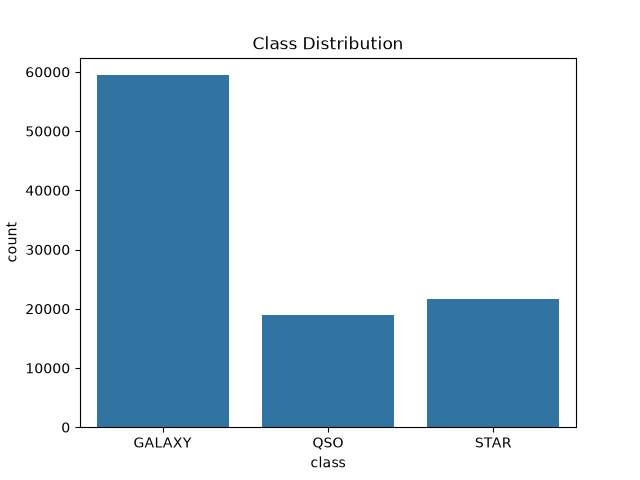
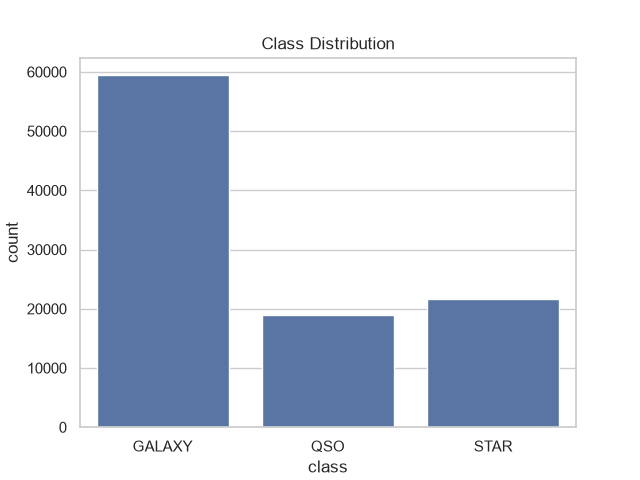
Add more comparison graphs to EDA

diff --git a/CS171_EDA.py b/CS171_EDA.py
@@ -2,54 +2,163 @@ import pandas as pd
 import seaborn as sns
 import matplotlib.pyplot as plt
 import torch
-pd.set_option('display.max_columns', None)
+
+# settings
+pd.set_option("display.max_columns", None)
+sns.set_theme(style="whitegrid")
+
+# load data set
 df = pd.read_csv("./star_classification.csv")
+
+# remove unused columns
+cols = ["u", "g", "r", "i", "z", "redshift"]
 drop_cols = ["obj_ID", "alpha", "delta", "run_ID", "rerun_ID", "cam_col", "field_ID", "spec_obj_ID", "plate", "MJD", "fiber_ID"]
 df.drop(columns=drop_cols, inplace=True)
-cols = ["u", "g", "r", "i", "z", "redshift"]
+
+# remove rows containing -9999 invalid measurements
 before = len(df)
 rows_to_drop = df[(df[cols] == -9999).any(axis=1)]
 df = df.drop(index=rows_to_drop.index)
 after = len(df)
 
+# remove duplicate rows
+duplicates = df.duplicated().sum()
+df = df.drop_duplicates().reset_index(drop=True)
+
+print("Invalid rows removed:", before-after)
+print("Duplicates removed:", duplicates)
+print("Remaining rows:", len(df))
+
 print("\n" + "-" * 70)
 print("Exploratory Data Analysis")
 print("-" * 70)
-print(f"Outliers dropped: {before - after}")
-print("Number of duplicates:", df.duplicated().sum())
-print()
+
+print("\nDataset Information")
 print(df.info())
-print()
+
+print("\nSummary Statistics")
 print(df.describe())
-print()
+
+print("\nClass Counts")
 print(df['class'].value_counts())
 
-print("Generating Class Distribution")
+print("Generating class distribution...")
 sns.countplot(data=df, x="class")
 plt.title("Class Distribution")
 plt.savefig("./EDA_Charts/class_distribution.png")
+plt.close()
 
-numeric_cols = df.select_dtypes(include="number").columns
-
-print("Generating box plots")
+print("Generating redshift boxplot...")
 plt.figure(figsize=(12,6))
 df[["redshift"]].boxplot()
 plt.title("Boxplot of Redshift")
 plt.savefig("./EDA_Charts/redshift_boxplot.png")
+plt.close()
+
+print("Generating other boxplots...")
 plt.figure(figsize=(8, 6))
 df[["u", "g", "r", "i", "z"]].boxplot()
 plt.title("Boxplots of Key Features")
 plt.xticks(rotation=45)
 plt.savefig("./EDA_Charts/features_boxplot.png")
-
-plt.figure(figsize=(12,10))
+plt.close()
 
 print("Generating Correlation Heatmap")
+
+plt.figure(figsize=(12,10))
 sns.heatmap(
     df.corr(numeric_only=True),
     cmap="coolwarm",
     annot=False
 )
-
 plt.title("Correlation Heatmap")
 plt.savefig("./EDA_Charts/heatmap_correlation.png")
+plt.close()
+
+print("Generating class-versus-feature boxplots...")
+for feature in cols:
+    plt.figure(figsize=(9, 6))
+    sns.boxplot(
+        data=df,
+        x="class",
+        y=feature,
+        showfliers=False,
+    )
+
+    plt.title(f"{feature.capitalize()} Distribution by Class")
+    plt.xlabel("Class")
+    plt.ylabel(feature)
+    plt.tight_layout()
+    plt.savefig(
+        f"./EDA_Charts/{feature}_comparison_boxplot.png",
+        dpi=300,
+    )
+    plt.close()
+
+sample_df = df.sample(n=5000, random_state=42)
+print("Genearting Feature Comparisons...")
+plt.figure(figsize=(8,6))
+sns.scatterplot(
+    data=sample_df,
+    x="redshift",
+    y="u",
+    hue="class",
+    alpha=0.5
+)
+plt.title("Redshift vs u")
+plt.tight_layout()
+plt.savefig("./EDA_Charts/redshift_vs_u.png")
+plt.close()
+
+plt.figure(figsize=(8,6))
+sns.scatterplot(
+    data=sample_df,
+    x="redshift",
+    y="g",
+    hue="class",
+    alpha=0.5
+)
+plt.title("Redshift vs g")
+plt.tight_layout()
+plt.savefig("./EDA_Charts/redshift_vs_g.png")
+plt.close()
+
+plt.figure(figsize=(8,6))
+sns.scatterplot(
+    data=sample_df,
+    x="u",
+    y="z",
+    hue="class",
+    alpha=0.5
+)
+plt.title("u vs z")
+plt.tight_layout()
+plt.savefig("./EDA_Charts/u_vs_z.png")
+plt.close()
+
+plt.figure(figsize=(8,6))
+sns.scatterplot(
+    data=sample_df,
+    x="g",
+    y="r",
+    hue="class",
+    alpha=0.5
+)
+plt.title("g vs r")
+plt.tight_layout()
+plt.savefig("./EDA_Charts/g_vs_r.png")
+plt.close()
+
+plt.figure(figsize=(8,6))
+sns.scatterplot(
+    data=sample_df,
+    x="r",
+    y="i",
+    hue="class",
+    alpha=0.5
+)
+plt.title("r vs i")
+plt.tight_layout()
+plt.savefig("./EDA_Charts/r_vs_i.png")
+plt.close()
+print(f"\nAll charts saved to EDA_Charts")
